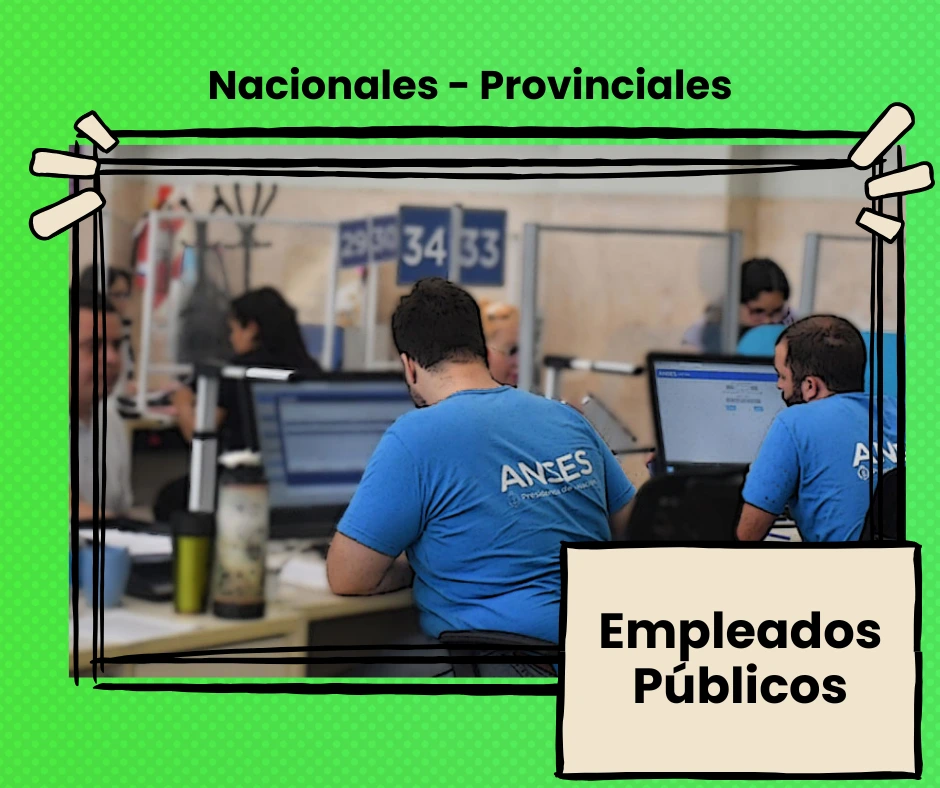
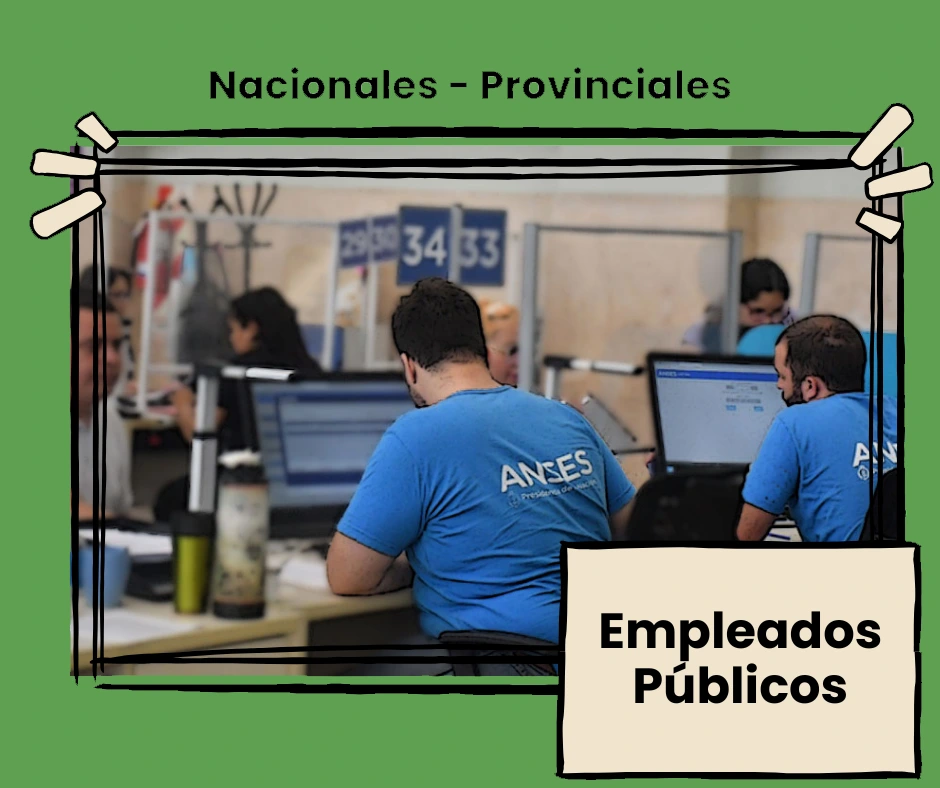
fix: ajustar color de iconos y corregir apertura de chat en carrusel

diff --git a/src/components/home/HomeCarousel.tsx b/src/components/home/HomeCarousel.tsx
@@ -23,11 +23,13 @@ export default function HomeCarousel() {
     { src: '/Jubilados.webp', alt: 'Imagen de jubilados' },
     { src: '/Privados.webp', alt: 'Imagen de empleados privados' },
     { src: '/Estatales.webp', alt: 'Imagen de empleados estatales' },
-    { src: '/Boton-2.webp', alt: 'Imagen con botón de contáctanos' }, // última con CTA
+    { src: '/YMas.webp', alt: 'Imagen con texto mas servicios de creditos' },
+    { src: '/Boton.webp', alt: 'Imagen con botón de contáctanos' },
   ];
 
   const handleCtaClick = () => {
     if (window.$crisp) {
+      window.$crisp.push(['do', 'chat:show']);
       window.$crisp.push(['do', 'chat:open']);
     }
   };
@@ -41,17 +43,17 @@ export default function HomeCarousel() {
           isDesktop
             ? false
             : {
-                delay: 3000,
-                disableOnInteraction: false,
-                pauseOnMouseEnter: true,
-              }
+              delay: 3000,
+              disableOnInteraction: false,
+              pauseOnMouseEnter: true,
+            }
         }
         navigation={
           isDesktop
             ? {
-                nextEl: '.swiper-next',
-                prevEl: '.swiper-prev',
-              }
+              nextEl: '.swiper-next',
+              prevEl: '.swiper-prev',
+            }
             : false
         }
         slidesPerView={1}
@@ -105,7 +107,7 @@ export default function HomeCarousel() {
                         fontSize: 14,
                         lineHeight: '16px',
                         color: '#FFFFFF',
-                        background: '#7CFF6B',
+                        background: '#1B1B1B',
                         boxShadow: '0 8px 18px rgba(0,0,0,0.18)',
                       }}
                     >

diff --git a/src/components/layout/Navbar.tsx b/src/components/layout/Navbar.tsx
@@ -133,7 +133,7 @@ export default function Navbar(props: Props) {
                 component={Link}
                 href={item.path}
                 sx={{
-                  color: pathname === item.path ? '#57E94A' : '#FFF9F0',
+                  color: pathname === item.path ? '#60A052' : '#FFF9F0',
                   textTransform: 'none',
                   fontWeight: pathname === item.path ? 600 : 400,
                   '&:hover': {
@@ -168,7 +168,7 @@ export default function Navbar(props: Props) {
           sx={{
             display: { xs: 'block', sm: 'none' },
             '& .MuiDrawer-paper': {
-              width: 280,                             // ajustá al ancho que quiera
+              width: 280,                          
               boxSizing: 'border-box',
               bgcolor: '#FFF9F0',
               color: 'var(--color-texto-principal)',

diff --git a/src/components/home/Contact.tsx b/src/components/home/Contact.tsx
@@ -28,7 +28,7 @@ export default function Contact() {
 
           {/* Marco */}
           <Image
-            src="/Marcos-Cards.svg"
+            src="/Marcos-Cards.webp"
             alt="Marco tarjeta verde"
             fill
             className="object-cover"
@@ -76,7 +76,7 @@ export default function Contact() {
 
           {/* Marco */}
           <Image
-            src="/Marcos-Cards.svg"
+            src="/Marcos-Cards.webp"
             alt="Marco tarjeta verde"
             fill
             className="object-cover"
@@ -121,7 +121,7 @@ export default function Contact() {
 
           {/* Marco */}
           <Image
-            src="/Marcos-Cards.svg"
+            src="/Marcos-Cards.webp"
             alt="Marco tarjeta verde"
             fill
             className="object-cover"

diff --git a/src/components/home/ThreeSteps.tsx b/src/components/home/ThreeSteps.tsx
@@ -5,7 +5,7 @@ import Image from "next/image";
 export default function ThreeSteps() {
     return (
         <section id="pasos" className="w-full max-w-6xl px-4 mx-auto lg:py-8 ">
-            <div className="relative  pt-12 pb-8 rounded-lg bg-background-seccion lg:max-w-4xl lg:m-auto">
+            <div className="relative pt-12 pb-8 rounded-lg bg-background-seccion lg:max-w-4xl lg:m-auto">
 
                 {/* Título */}
                 <h2

diff --git a/tailwind.config.js b/tailwind.config.js
@@ -33,11 +33,11 @@ module.exports = {
         'texto-secundario': '#6C6C6C',
         'texto-botones': '#FAFAFA',
 
-        'boton-primario': '#6EFF5B',
+        'boton-primario': '#60A052',
         'boton-secundario': '#F76C5E',
         'boton-neutral': '#1B1B1B',
 
-        'hover-primario': '#57E94A',
+        'hover-primario': '#4E8A43',
         'hover-secundario': '#E85D50',
 
         'sistema-uno': '#D3D3D3',

diff --git a/src/components/home/Hero.tsx b/src/components/home/Hero.tsx
@@ -49,7 +49,7 @@ export default function Hero() {
             </ul>
 
             <Button
-              text="Inicar Consulta"
+              text="Iniciar Consulta"
               ariaLabel="Abrir WhatsApp"
               onClick={handleWhatsApp}
               className="mt-4 bg-boton-primario text-texto-botones text-button lg:hover:bg-hover-primario"
